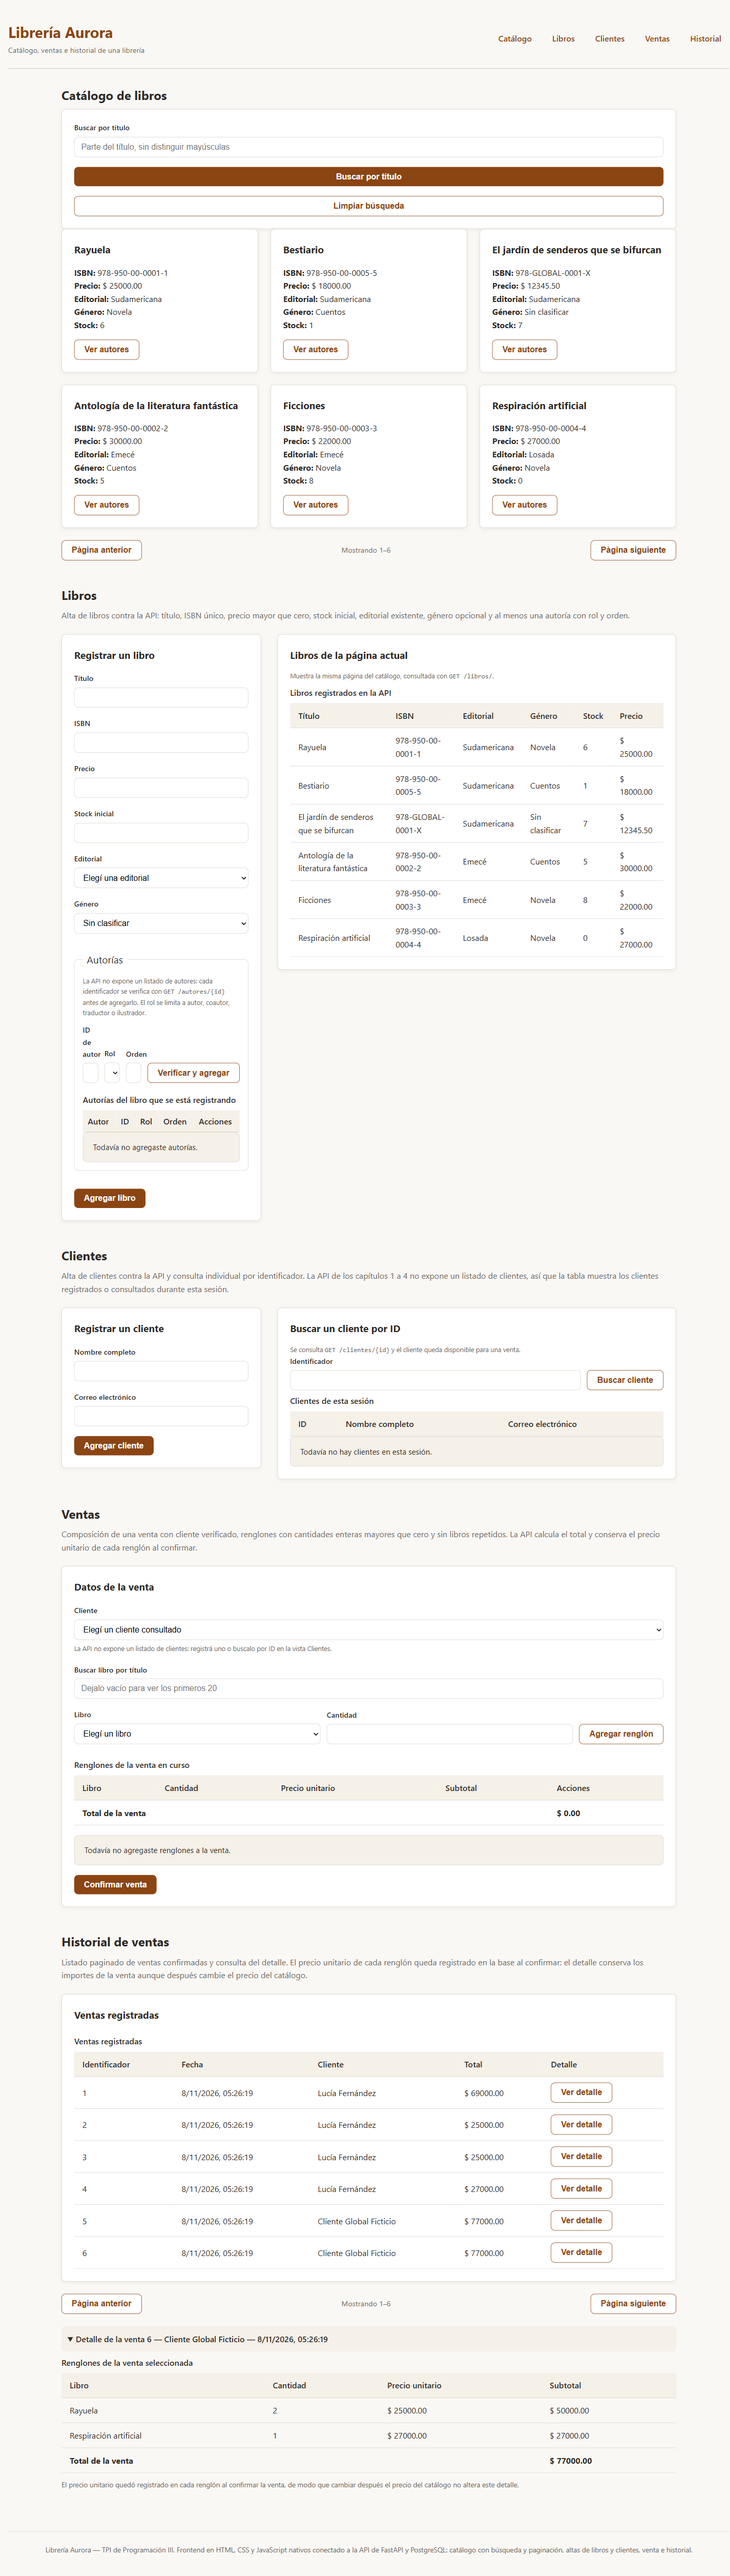
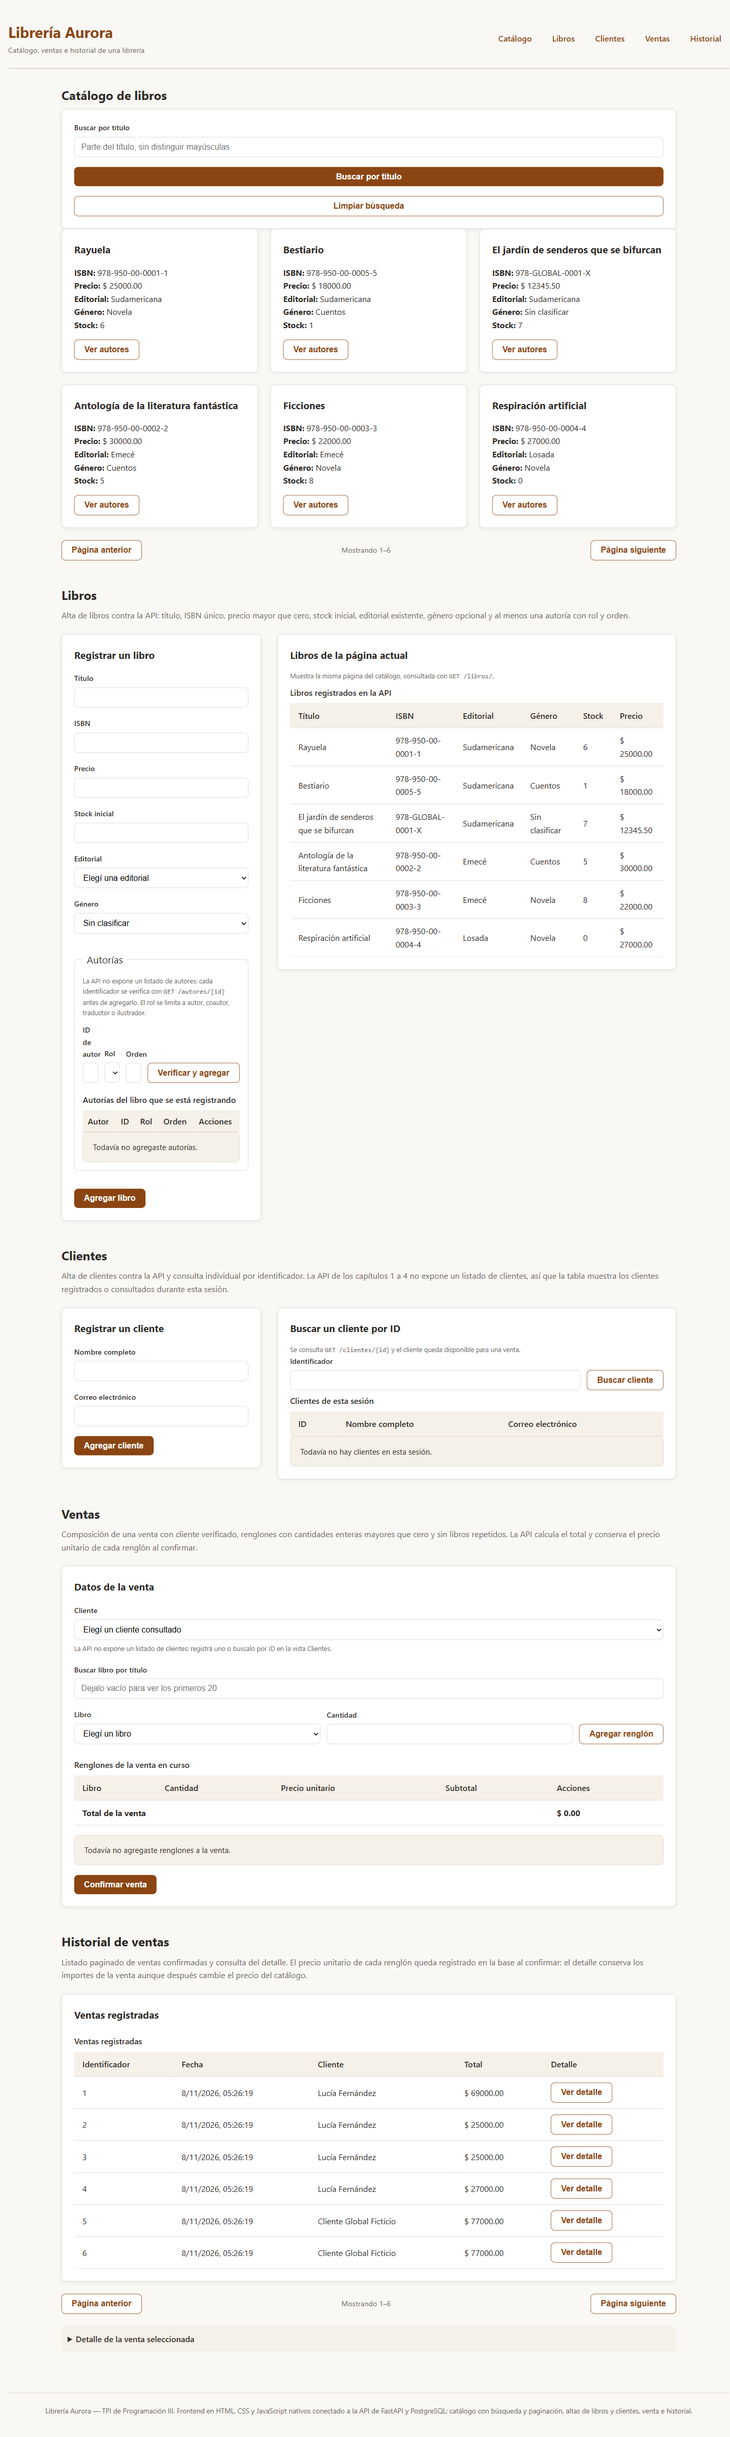
fix(frontend): actualizar el destino del dev server al nuevo dominio y documentar el cambio

diff --git a/frontend/dev_server.py b/frontend/dev_server.py
@@ -9,8 +9,10 @@ Uso:
     python dev_server.py
     python dev_server.py --puerto 8080 --destino http://127.0.0.1:8000
 
-El destino por omisión es la API pública; para trabajar contra un backend local
-pasá ``--destino http://127.0.0.1:8000``.
+El destino por omisión es el prefijo público de la API del frontend desplegado
+(``https://libreria.enzogiaquinta.me/api``), que Nginx reenvía al backend por la
+red interna. Para trabajar contra un backend local pasá
+``--destino http://127.0.0.1:8000``.
 """
 
 from __future__ import annotations
@@ -27,7 +29,7 @@ from http.server import BaseHTTPRequestHandler, ThreadingHTTPServer
 from pathlib import Path
 
 RAIZ = (Path(__file__).resolve().parent / "public").resolve()
-DESTINO_POR_OMISION = "https://libreria.enzogiaquinta.me"
+DESTINO_POR_OMISION = "https://libreria.enzogiaquinta.me/api"
 TIEMPO_ESPERA = 20
 
 
@@ -178,7 +180,7 @@ def main() -> int:
     analizador.add_argument(
         "--destino",
         default=DESTINO_POR_OMISION,
-        help="URL del backend sin barra final (por omisión %s)" % DESTINO_POR_OMISION,
+        help="URL base de la API sin barra final (por omisión %s)" % DESTINO_POR_OMISION,
     )
     argumentos = analizador.parse_args()
 

diff --git a/evidencia/G-07.md b/evidencia/G-07.md
@@ -1,36 +1,41 @@
 # G-07 · Despliegue
 
-**Fecha**: 2026-11-10
-**URL pública**: <https://front.enzogiaquinta.me/>
-**Estado**: verificado.
+**Fecha**: 2026-11-10, actualizado el 2026-11-11 tras el cambio de dominio
+**URL pública**: <https://libreria.enzogiaquinta.me/>
+**Estado**: verificado. El backend no tiene dominio público; se consume por `/api`.
 
 ## Resultado observado
 
 | Control | Resultado |
 |---|---|
 | Build del frontend en Easypanel | Exitoso. Servicio `frontend`, build path `frontend/`, Dockerfile relativo. |
-| URL pública por HTTPS | `https://front.enzogiaquinta.me/` responde 200 y sirve el catálogo. |
+| URL pública por HTTPS | `https://libreria.enzogiaquinta.me/` responde 200 y sirve el catálogo. |
+| Cambio de dominio | El frontend pasó de `front.enzogiaquinta.me` a `libreria.enzogiaquinta.me` y se retiró el dominio público del backend. No hizo falta tocar código: la URL base es relativa (`/api`) y el proxy usa el nombre interno del servicio. |
+| Dominio del backend retirado | `GET https://libreria.enzogiaquinta.me/libros/` → **404**: ese dominio publica la web y `/api/`, no la API sin prefijo. |
 | `/api/health/ready` a través del proxy | **200** `{"status":"ok"}`. |
 | Catálogo con datos | 6 libros en la primera página (`Mostrando 1–6`). |
 | Proxy de escritura | Se registró la **venta 6** con dos renglones desde la URL pública: `POST /api/ventas/` → 201, total `$ 77000.00`. |
 | Detalle después de recargar | La venta 6 conserva sus renglones, precios unitarios y total. |
 | Persistencia entre despliegues | La **venta 5**, registrada antes de publicar el frontend y antes del redespliegue del backend con CORS, sigue visible y con sus importes. |
-| Redespliegue del frontend | Tras redesplegar el servicio con el commit final (`d0a8712`): `favicon.svg` responde 200, la **venta 6** conserva sus dos renglones y su total, y la consola queda sin errores. |
-| CORS del backend | `OPTIONS https://libreria.enzogiaquinta.me/libros/` → **200** con `access-control-allow-origin: *`. |
-| Consola del navegador | Sin errores después del redespliegue final. |
+| Redespliegue del frontend | Tras redesplegar el servicio con el commit final: `favicon.svg` responde 200, la **venta 6** conserva sus dos renglones y su total, y la consola queda sin errores. |
+| CORS del backend | `OPTIONS https://libreria.enzogiaquinta.me/api/libros/` → **200** con `access-control-allow-origin: *`. |
+| Consola del navegador | Sin errores. |
 
 ## Cómo se verificó
 
 ```powershell
-curl.exe -i -X OPTIONS "https://libreria.enzogiaquinta.me/libros/" `
-  -H "Origin: http://127.0.0.1:8080" -H "Access-Control-Request-Method: GET"
+curl.exe -i -X OPTIONS "https://libreria.enzogiaquinta.me/api/libros/" `
+  -H "Origin: https://ejemplo.test" -H "Access-Control-Request-Method: GET"
 # HTTP/1.1 200 OK
 # Access-Control-Allow-Origin: *
 
-Invoke-RestMethod https://front.enzogiaquinta.me/api/health/ready
+Invoke-RestMethod https://libreria.enzogiaquinta.me/api/health/ready
 # status
 # ------
 # ok
+
+Invoke-RestMethod "https://libreria.enzogiaquinta.me/api/ventas/?limit=100&offset=0"
+# 6 ventas; la última es la 6 con total 77000.00
 ```
 
 En el navegador, desde la URL pública:
@@ -49,6 +54,10 @@ GET /api/health/ready       -> 200 {"status":"ok"}
 Venta 6 en el historial     -> sí, con los dos renglones y $ 77000.00
 Consola del navegador       -> 0 errores
 ```
+
+Con el dominio nuevo (`libreria.enzogiaquinta.me`) se repitió la prueba completa el 2026-11-11:
+6 libros en el catálogo, 6 ventas en la API, detalle de la venta 6 con `$ 77000.00` y cero errores
+de consola, sin ningún cambio de código.
 
 ## Datos ficticios creados en el despliegue
 

diff --git a/DEPLOY.md b/DEPLOY.md
@@ -11,8 +11,8 @@ Este documento registra cómo se publica la aplicación completa: el backend del
 | Repositorio del frontend | `https://github.com/Enghyn/practica_front_parcial`, rama `main` |
 | Servicio backend | `libreria-api` — build path `despliegue/` (repositorio del segundo parcial) |
 | Servicio frontend | `frontend` — build path `frontend/` (este repositorio) |
-| URL pública del frontend | <https://front.enzogiaquinta.me/> (HTTPS) |
-| URL pública de la API | ninguna: el backend queda en la red interna |
+| URL pública del frontend | <https://libreria.enzogiaquinta.me/> (HTTPS) |
+| URL pública de la API | ninguna: el backend se retiró de la red pública y sólo se consume por `/api` a través del frontend |
 | Imagen del frontend | `nginx:1.30-alpine` con `public/` y la plantilla de proxy |
 | Base de datos | PostgreSQL 16 del mismo proyecto; head de Alembic `5f67a857f685` (migración 0002) |
 | Puerto interno del backend | `8000` |
@@ -132,17 +132,18 @@ con `python dev_server.py`, que sirve `public/` y reenvía `/api/*` igual que Ng
 
 ```powershell
 # 1) salud a través del proxy del frontend
-Invoke-RestMethod https://front.enzogiaquinta.me/api/health/ready
+Invoke-RestMethod https://libreria.enzogiaquinta.me/api/health/ready
 
 # 2) catálogo
-Invoke-RestMethod "https://front.enzogiaquinta.me/api/libros/?limit=2&offset=0"
+Invoke-RestMethod "https://libreria.enzogiaquinta.me/api/libros/?limit=2&offset=0"
 
 # 3) el sitio responde por HTTPS
-Invoke-WebRequest https://front.enzogiaquinta.me/ -UseBasicParsing | Select-Object StatusCode
+Invoke-WebRequest https://libreria.enzogiaquinta.me/ -UseBasicParsing | Select-Object StatusCode
 ```
 
-Verificado el 2026-11-10: `/api/health/ready` → 200 `{"status":"ok"}`, catálogo con 6 libros y
-`OPTIONS` del backend con `access-control-allow-origin: *`.
+Verificado el 2026-11-11: `/api/health/ready` → 200 `{"status":"ok"}`, catálogo con 6 libros y el
+detalle de venta con sus importes históricos. El backend ya no tiene dominio público: `GET /libros/`
+sobre el dominio del frontend responde 404 porque ese dominio sólo publica la web y `/api/`.
 
 Los casos funcionales G-01 a G-07 están registrados en `evidencia/`.
 
@@ -177,6 +178,16 @@ El backend de los capítulos 1 a 4 habilita `CORSMiddleware` con `allow_origins=
 puerto; en producción no interviene porque front y API comparten origen. No debe copiarse a un
 backend con cookies o tokens.
 
+Como el backend ya no tiene dominio público, la comprobación del preflight se hace a través del
+proxy del frontend:
+
+```powershell
+curl.exe -i -X OPTIONS "https://libreria.enzogiaquinta.me/api/libros/" `
+  -H "Origin: https://ejemplo.test" -H "Access-Control-Request-Method: GET"
+# HTTP/1.1 200 OK
+# Access-Control-Allow-Origin: *
+```
+
 ## Registro de cambios
 
 | Fecha | Cambio |
@@ -184,4 +195,5 @@ backend con cookies o tokens.
 | 2026-11-08 | Backend desplegado en Easypanel (`libreria-api`, build path `despliegue/`). |
 | 2026-11-10 | Frontend integrado a la API, imagen Nginx y `dev_server.py`; CORS en el backend. |
 | 2026-11-10 | Backend redesplegado con CORS (OPTIONS 200, `access-control-allow-origin: *`). |
-| 2026-11-10 | Servicio `frontend` publicado en <https://front.enzogiaquinta.me/>; verificación G-07. |
+| 2026-11-10 | Servicio `frontend` publicado; verificación G-07. |
+| 2026-11-11 | El frontend pasa a <https://libreria.enzogiaquinta.me/> y se retira el dominio público del backend; la API queda accesible sólo por `/api` a través del frontend. Sin cambios de código: la URL base es relativa y el proxy usa la red interna. |

diff --git a/backend/DEPLOY.md b/backend/DEPLOY.md
@@ -1,6 +1,8 @@
 # Despliegue — imagen Docker del TP capítulos 1 a 4
 
-- **URL pública**: <https://libreria.enzogiaquinta.me>
+- **URL pública**: <https://libreria.enzogiaquinta.me> — *histórica*: desde el
+  2026-11-11 ese dominio sirve el frontend integrado y la API no tiene dominio
+  público (se consume por `/api` a través del frontend).
 - **Puesto en línea**: **2026-11-08** (UTC-3). La venta 4 quedó registrada a las
   **17:26:19 UTC-3**, lo que confirma el servicio ya operativo; la evidencia
   D-01…D-07 se registró a las 18:46 UTC-3.
@@ -28,6 +30,12 @@ despliegue: `Dockerfile`, `.dockerignore`, `env.example`, `DEPLOY.md` y
 > el desarrollo local del frontend desde otro origen. En producción Nginx publica
 > front y API bajo el mismo origen y el middleware no interviene. No cambia ningún
 > endpoint, esquema ni migración. El resto de este documento sigue vigente.
+>
+> **Dominio (2026-11-11).** `libreria.enzogiaquinta.me` pasó a servir el frontend
+> integrado y el servicio `libreria-api` ya no tiene dominio público: se consume
+> por `/api` a través del frontend, por la red interna. Las referencias a esa URL
+> como API en este documento, en D-03 y en D-04 corresponden al despliegue del
+> segundo parcial (2026-11-08) y se conservan como registro histórico.
 
 ## Qué queda dentro de la imagen
 
@@ -168,7 +176,8 @@ En el runtime de EasyPanel, el contenedor se localiza por nombre:
 CID=$(docker ps --filter name=libreria-api --filter status=running -q | head -n1)
 docker inspect "$CID" --format '{{.State.Status}} | {{if .State.Health}}{{.State.Health.Status}}{{end}}'
 docker exec "$CID" python -m alembic current
-curl -s -o /dev/null -w 'health=%{http_code}\n' https://libreria.enzogiaquinta.me/health/ready
+# histórico: desde 2026-11-11 este dominio sirve el frontend; la API va por /api
+curl -s -o /dev/null -w 'health=%{http_code}\n' https://libreria.enzogiaquinta.me/api/health/ready
 ```
 
 ## Cambios al TP

diff --git a/README.md b/README.md
@@ -4,7 +4,7 @@ Aplicación integrada de la librería: frontend en HTML, CSS y JavaScript nativo
 de FastAPI del TP «Librería: catálogo, clientes y ventas con FastAPI y PostgreSQL» (capítulos 1 a 4),
 con los datos persistidos en PostgreSQL y el frontend publicado como imagen Nginx.
 
-- **Frontend público**: <https://front.enzogiaquinta.me/>
+- **Frontend público**: <https://libreria.enzogiaquinta.me/>
 - **API**: servicio interno del proyecto de Easypanel; se consume bajo `/api` desde el frontend.
 - **Repositorio**: <https://github.com/Enghyn/practica_front_parcial> (rama `main`).
 - **Repositorio del backend**: el servicio se despliega desde el repositorio del segundo parcial con
